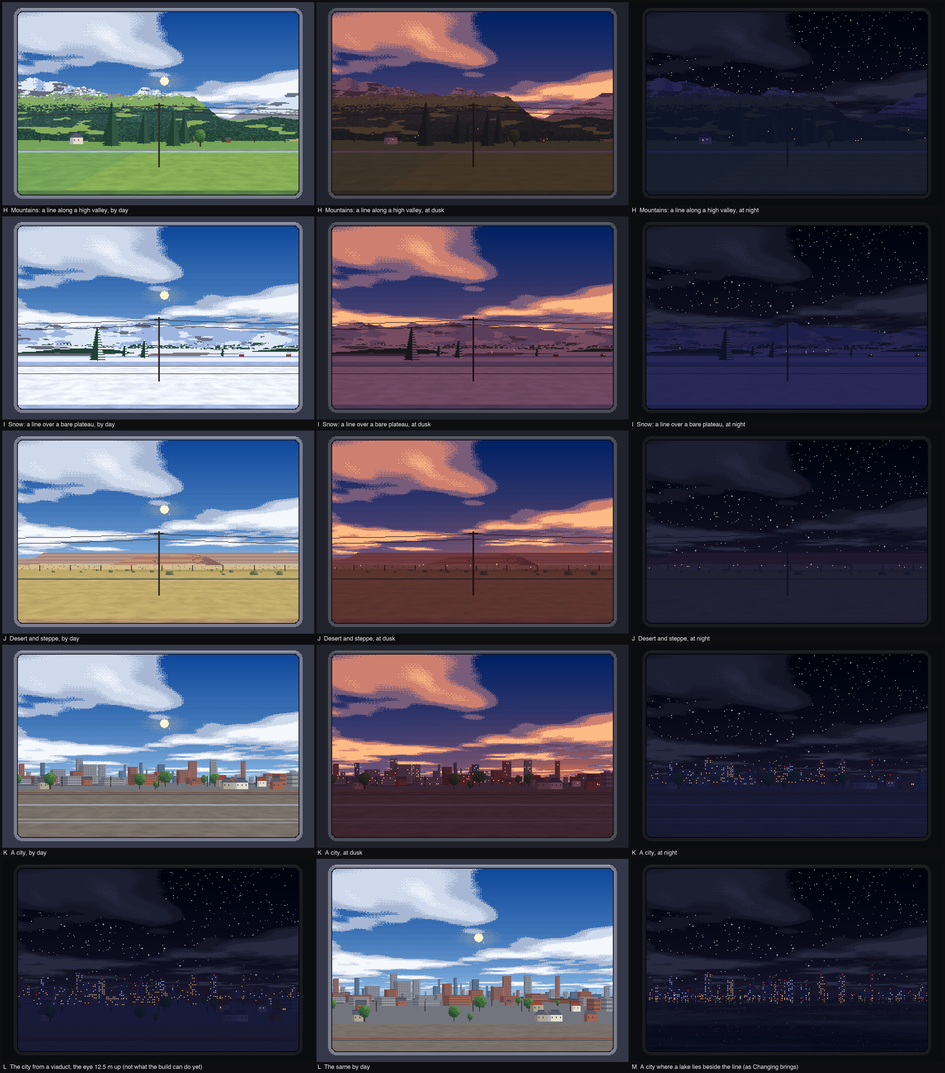
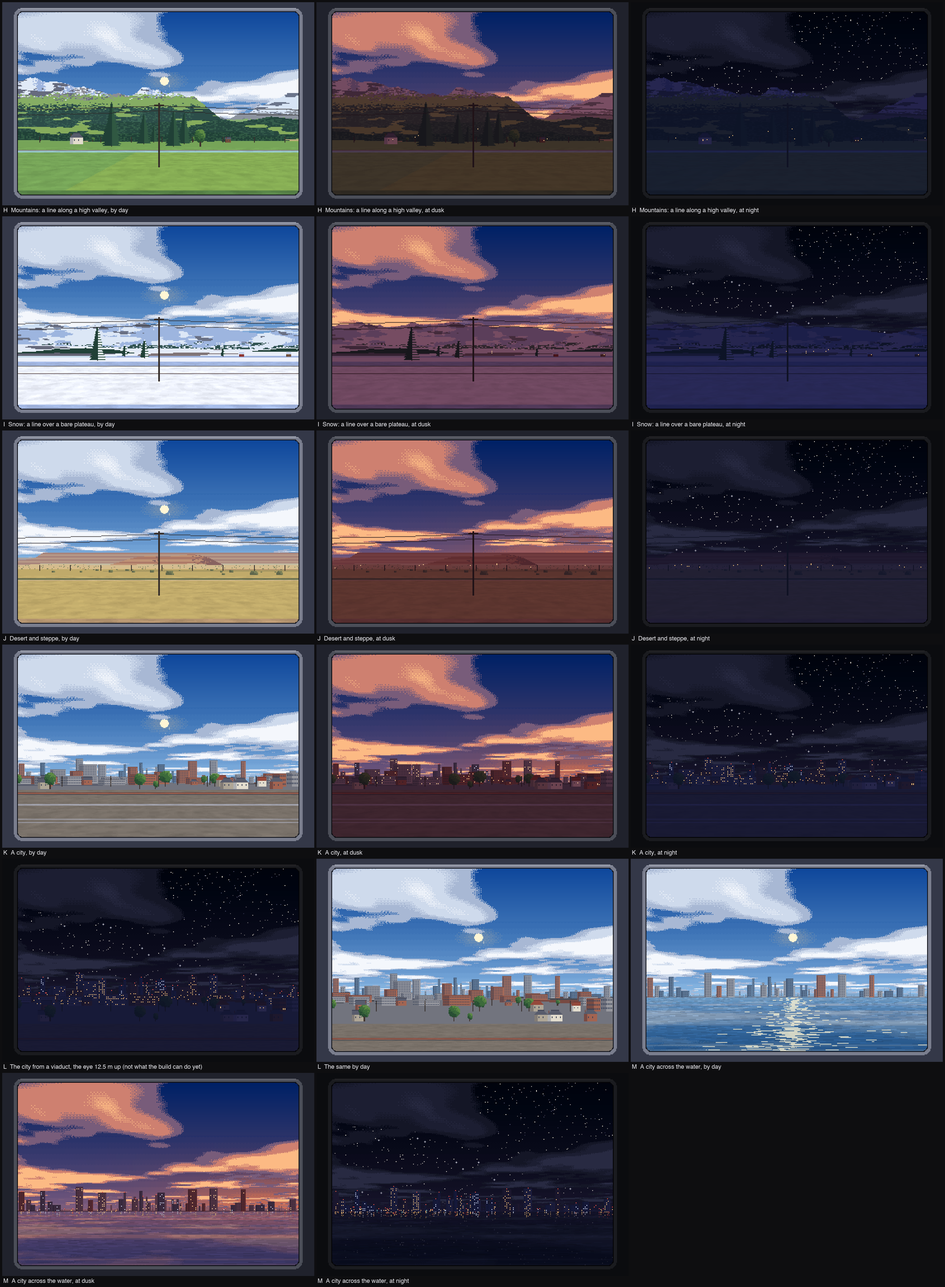
Pixel Window Seat: a city across the water, a Scenery pick of the train's own
The best night picture the train has, a city's lights across a lake, came only
when Changing happened to bring it. The pick holds it: the city with a lake
beside the line, its far shore a quay, matched to the mock-ups byte for byte.
Left to change, a lake lies beside a little more of a city too. Still hidden.

diff --git a/Tests/AtriumTests/TrainTests.swift b/Tests/AtriumTests/TrainTests.swift
@@ -53,7 +53,7 @@ import Testing
 /// What keeps it calm at any speed: no lamp is laid on a ring that slides faster than `TrainWorld.bright` pixels a
 /// second, none of the lane's poles on one faster than `thin`, and nothing that stands (a tree, a house) on one
 /// faster than `broad`. In each country held, and left to change.
-@Test(arguments: [0, 1, 3, 4, 5, 6]) func trainNothingThinIsFast(scenery: Int) {
+@Test(arguments: [0, 1, 3, 4, 5, 6, 7]) func trainNothingThinIsFast(scenery: Int) {
     var standing = 0, lamps = 0
     // What only a thing that stands is made of: a trunk, a window, a wall. (In the mountains fir is also the forest
     // on the land's face, which is land; a fir that stands has a trunk.)
@@ -85,7 +85,7 @@ import Testing
 @MainActor @Test func trainNightIsNeverBlack() {
     let keys = [PixelWindowSeat.previewTime.key, PixelWindowSeat.previewHour.key, PixelTrain.scenery.key, PixelCarriage.choice.key]
     defer { for key in keys { UserDefaults.standard.removeObject(forKey: key) } }
-    for (scenery, name) in [(1.0, "countryside"), (2, "a lake"), (3, "the mountains"), (4, "a city"), (5, "snow"), (6, "the desert")] {
+    for (scenery, name) in [(1.0, "countryside"), (2, "a lake"), (3, "the mountains"), (4, "a city"), (5, "snow"), (6, "the desert"), (7, "a city across the water")] {
         for (key, value) in zip(keys, [1, 23, scenery, 0]) { UserDefaults.standard.set(value, forKey: key) }
         let scene = PixelTrain(size: CGSize(width: 1512, height: 982))
         var seen: [Int] = []
@@ -104,7 +104,7 @@ import Testing
 @MainActor @Test func trainNightKeepsItsLampsInFog() {
     let keys = [PixelWindowSeat.previewTime.key, PixelWindowSeat.previewHour.key, PixelTrain.scenery.key, TrainWeather.preview.key, PixelCarriage.choice.key]
     defer { for key in keys { UserDefaults.standard.removeObject(forKey: key) } }
-    for (scenery, name) in [(1.0, "countryside"), (2, "a lake"), (3, "the mountains"), (4, "a city"), (5, "snow"), (6, "the desert")] {
+    for (scenery, name) in [(1.0, "countryside"), (2, "a lake"), (3, "the mountains"), (4, "a city"), (5, "snow"), (6, "the desert"), (7, "a city across the water")] {
         for (key, value) in zip(keys, [1, 23, scenery, 3, 0]) { UserDefaults.standard.set(value, forKey: key) }
         let scene = PixelTrain(size: CGSize(width: 1512, height: 982))
         var seen: [Int] = []
@@ -166,6 +166,38 @@ import Testing
 
 /// Left to change, the country has lakes beside the line for a fair share of it, and neither they nor the country
 /// between go on so long that the wallpaper seems stuck: at 1× the train covers 800 m a minute.
+/// A city across the water is the city with a lake held beside the line. Nearer than the far shore nothing stands
+/// and there is no pole line; every row of ground is water; and the far shore is a quay all along, with the city's
+/// lights over it. (What the rings beyond hold is set against the mock-ups' painter by `trainWritesItsCountry`.)
+@Test func trainHoldsACityAcrossTheWater() {
+    var harbour = TrainWorld(focal: 265, eye: 3.5, speed: 13.3)
+    harbour.scenery = 7
+    var bare = 0, onTheWater = 0, lamps = 0
+    for x in [52000.0, 3.0, 1_234_567.5] {
+        for ring in TrainWorld.rings.indices {
+            let rows = harbour.rows(ring), first = Int((x * harbour.perMetre(ring)).rounded(.down)) - 170
+            var across = [UInt8](repeating: 0, count: rows)
+            for n in first..<first + 340 {
+                _ = across.withUnsafeMutableBufferPointer { harbour.column(ring, n, into: $0.baseAddress!) }
+                if TrainWorld.rings[ring] >= TrainWorld.farShore {
+                    lamps += across.count { $0 > 127 }
+                    if TrainWorld.rings[ring] == TrainWorld.farShore, across[0] & 127 == 0 { bare += 1 }
+                } else {
+                    onTheWater += across.count { $0 != 0 }
+                }
+            }
+        }
+        for d in 1...66 {
+            let first = Int((x * (Double(d) / harbour.eye)).rounded(.down)) - 170
+            onTheWater += (first..<first + 340).count { harbour.ground(d, $0).land != TrainMat.water }
+        }
+        harbour.poleLine(at: x, wide: 340, high: 221, horizon: 66) { _, _, _ in onTheWater += 1 }
+    }
+    #expect(bare == 0, "\(bare) columns of the far shore have no quay")
+    #expect(onTheWater == 0, "\(onTheWater) things stand on the water")
+    #expect(lamps > 300, "the far shore has \(lamps) lights in three panes")
+}
+
 @Test func trainPassesLakes() {
     let world = TrainWorld(focal: 265.2, eye: 3.5, speed: PixelTrain.pace)
     var beside = 0, runs: [Bool: [Int]] = [true: [], false: []], last = false, run = 0
@@ -199,7 +231,7 @@ import Testing
     #expect(share.count == TrainWorld.passing.count + 1 && share.values.allSatisfy { $0 > 2000 }, "a country has under a twentieth of the line: \(share)")
     // The best night picture on the sheet is a city's lights in a lake: left to change, the line must bring one.
     print("train countries: a lake lies beside a city for \(harbours.count / 10) km of the 4,000, first at metres \(harbours.prefix(1)), and beside \(Set(harbours.map { $0 / 22_000 }).count) stretches of city")
-    #expect(harbours.count > 200, "a lake lies beside a city for only \(harbours.count / 10) km in 4,000")
+    #expect(harbours.count > 900, "a lake lies beside a city for only \(harbours.count / 10) km in 4,000") // (78 km without `TrainWorld.harbour`)
     #expect(runs[runs.count / 10] >= 80 && runs[runs.count * 9 / 10] <= 800, "stretches run from \(runs.first!) to \(runs.last!) hundred metres")
     var tallest = 0
     for meet in meets.prefix(40) {
@@ -279,7 +311,7 @@ import Testing
     defer { for key in keys { UserDefaults.standard.removeObject(forKey: key) } }
     // Each country, then the weather that moves: snow falling on the snow country, rain running on the glass
     // beside a lake, and a storm over the city a fifth of a second into its first strike.
-    for (scenery, weather) in [(1.0, 0.0), (2, 0), (3, 0), (4, 0), (5, 0), (6, 0), (5, 6), (2, 5), (4, 7)] {
+    for (scenery, weather) in [(1.0, 0.0), (2, 0), (3, 0), (4, 0), (5, 0), (6, 0), (7, 0), (5, 6), (2, 5), (4, 7)] {
         for (key, value) in zip(keys, [1, 13, scenery, weather]) { UserDefaults.standard.set(value, forKey: key) }
         var pictures: [[UInt32]] = []
         // (From an odd metre: 2.2 s at 1× is 29⅓ m, and from a whole one three rows of ground would end exactly on
@@ -302,7 +334,7 @@ import Testing
 /// Moving the Speed slider lays nothing again: at the moment it moves the picture stays as it was, pole line
 /// and all, though at 3× the line and the nearest trees are too fast to be laid. Only what comes into view from
 /// then on goes by the new speed.
-@MainActor @Test(arguments: [1.0, 3, 4, 5, 6]) func trainKeepsItsCountryAsTheSpeedChanges(scenery: Double) {
+@MainActor @Test(arguments: [1.0, 3, 4, 5, 6, 7]) func trainKeepsItsCountryAsTheSpeedChanges(scenery: Double) {
     let keys = [PixelWindowSeat.previewTime.key, PixelWindowSeat.previewHour.key, PixelTrain.scenery.key, PixelWindowSeat.speed.key]
     defer { for key in keys { UserDefaults.standard.removeObject(forKey: key) } }
     for (key, value) in zip(keys, [1, 13, scenery, 1.0]) { UserDefaults.standard.set(value, forKey: key) }
@@ -399,7 +431,7 @@ import Testing
     var world = TrainWorld(focal: 265, eye: 3.5, speed: 13.3) // the Large pane, its horizon 30% up
     let wide = 340, ground = 66
     // Countryside, as the first sheets' was, and then each of the other sceneries held, its files under its name.
-    for (scenery, name) in [(1, ""), (3, "mountains-"), (4, "city-"), (5, "snow-"), (6, "desert-")] {
+    for (scenery, name) in [(1, ""), (3, "mountains-"), (4, "city-"), (5, "snow-"), (6, "desert-"), (7, "harbour-")] {
         world.scenery = scenery
         for x in [52000.0, 52137.25, 3.0, 1_234_567.5] {
             for ring in TrainWorld.rings.indices {

diff --git a/Sources/Atrium/PixelTrain.swift b/Sources/Atrium/PixelTrain.swift
@@ -11,9 +11,12 @@ import SpriteKit
 /// the far.
 final class PixelTrain: SKScene {
     /// What country the line runs through: whatever comes, or held on one kind. (A menu of the train's own: the
-    /// airliner's has sceneries the train hasn't got yet, and its ocean is the train's lake.)
-    nonisolated static let scenery = Knob(key: "seat.country", label: "Scenery", range: 0...6, standard: 0, section: "Flight",
-                                          format: .choice(["Changing", "Countryside", "A lake beside the line", "Mountains", "A city", "Snow", "Desert"]), shownWhen: "seat.orbit", shownAt: 2)
+    /// airliner's has sceneries the train hasn't got yet, and its ocean is the train's lake.) The city across the
+    /// water was added last, so it is stored last and listed beside the city.
+    nonisolated static let scenery = Knob(key: "seat.country", label: "Scenery", range: 0...7, standard: 0, section: "Flight",
+                                          format: .choice(["Changing", "Countryside", "A lake beside the line", "Mountains", "A city", "Snow", "Desert",
+                                                           "A city across the water"]),
+                                          order: [0, 1, 2, 3, 4, 7, 5, 6], shownWhen: "seat.orbit", shownAt: 2)
     nonisolated static let poles = Knob(key: "seat.poles", label: "Poles and wires beside the line", range: 0...1, standard: 1, section: "Flight",
                                         format: .toggle, shownWhen: "seat.orbit", shownAt: 2)
     /// The train's own settings, listed among the airliner's (`PixelWindowSeat.rows`) while the train is offered.
@@ -605,18 +608,25 @@ struct TrainWorld {
     /// Which side things are lit from: 1 from the right of the picture, -1 from the left.
     var sun = 1
     /// Settings' Scenery: 0 for whatever comes, 1 for countryside, 2 for a lake beside the line, 3 for mountains,
-    /// 4 for a city, 5 for snow, 6 for desert.
+    /// 4 for a city, 5 for snow, 6 for desert, 7 for a city with a lake beside the line.
     var scenery = 0
     /// A lake's far shore is the ring this far off, and those beyond it: nearer rings stand on our side of the water.
     static let farShore = 1800.0
+    /// How much more readily a lake lies beside a city than beside other country, left to change (see `shore`).
+    static let harbour = 0.07
 
     /// How far from the track the land reaches before a lake begins, at a place along the line: no way at all where
     /// a lake lies beside the line, and for ever where there is none. Left to change, lakes lie along a third of the
     /// line, about 5 km of it at a time (six minutes at 1×) with 8 km of country between, and at each end the shore
-    /// closes in on the track over a few hundred metres.
+    /// closes in on the track over a few hundred metres. A city has more water beside it than other country, by
+    /// `harbour`, since its lights across a lake are the best the night has: none more at its edge, where it
+    /// meets farmland, and all of it from 3 km in.
     func shore(_ wx: Double) -> Double {
-        guard scenery == 0 else { return scenery == 2 ? 0 : .infinity }
-        let lake = fbm(wx / 5000, 11, 2, 5150) - 0.57
+        guard scenery == 0 else { return scenery == 2 || scenery == 7 ? 0 : .infinity }
+        var lake = fbm(wx / 5000, 11, 2, 5150) - 0.57
+        guard lake > -Self.harbour else { return .infinity }
+        let place = country(wx)
+        if place.kind == .city { lake += Self.harbour * place.relief(0) }
         guard lake > 0 else { return .infinity }
         let near = 1 - min(lake / 0.04, 1)
         return Self.farShore * near * near

diff --git a/Sources/Atrium/TrainScenery.swift b/Sources/Atrium/TrainScenery.swift
@@ -116,8 +116,9 @@ extension TrainWorld {
     static let stretch = 22_000.0
     /// The countries Changing passes through between its stretches of farmland.
     static let passing: [TrainCountry] = [.mountains, .city, .snow, .desert]
-    /// The country Settings' Scenery holds the line to, by its pick (a lake's is farmland).
-    private static let held: [TrainCountry] = [.farmland, .farmland, .farmland, .mountains, .city, .snow, .desert]
+    /// The country Settings' Scenery holds the line to, by its pick (a lake's is farmland, and the last is a city
+    /// with a lake beside it).
+    private static let held: [TrainCountry] = [.farmland, .farmland, .farmland, .mountains, .city, .snow, .desert, .city]
 
     /// Where a place along the line lies. Held on a scenery by Settings, the line is all one country. Left to
     /// change, it is cut into stretches at uneven places: every other one is farmland, and each between draws its
@@ -184,7 +185,7 @@ extension TrainWorld {
     /// skirt of scree; dunes and low rises nearer, with a little scrub; then scrub in clumps from 900 m in, thicker by
     /// the line, and where farmland has villages a camp of round felt tents, each with a door that glows after dark.
     func otherColumn(_ kind: TrainCountry, _ ring: Int, _ n: Int, into cells: UnsafeMutablePointer<UInt8>, by laid: [Laying], relief: Double) -> UInt8 {
-        if kind == .city { return cityColumn(ring, n, into: cells, by: laid) }
+        if kind == .city { return cityColumn(ring, n, into: cells, by: laid, relief: relief) }
         let z = Self.rings[ring], ppm = focal / z, wx = Double(n) / ppm, salt = UInt64(z) + kind.salt, rows = rows(ring)
         guard z >= Self.farShore || z <= shore(wx) else { return 0 } // out in a lake
         /// How fast the ring slid, in pixels a second, and which side the Sun was on, when column `n` came into view.
@@ -347,7 +348,7 @@ extension TrainWorld {
     /// windows lit after dark, warm in homes and white in glass. Street lamps stand every 40 to 70 m from 900 m in,
     /// on posts from 300 m in. And far off the city's streets are a seam of lights along its foot. Toward where
     /// another country begins the buildings are lower.
-    private func cityColumn(_ ring: Int, _ n: Int, into cells: UnsafeMutablePointer<UInt8>, by laid: [Laying]) -> UInt8 {
+    private func cityColumn(_ ring: Int, _ n: Int, into cells: UnsafeMutablePointer<UInt8>, by laid: [Laying], relief: Double) -> UInt8 {
         let kind = TrainCountry.city, z = Self.rings[ring], ppm = focal / z, wx = Double(n) / ppm, salt = UInt64(z) + kind.salt, rows = rows(ring)
         guard z >= Self.farShore || z <= shore(wx) else { return 0 } // out in a lake
         func when(_ n: Int) -> (pace: Double, sun: Int) {
@@ -406,6 +407,13 @@ extension TrainWorld {
                 cells[row] = (tint < 0.45 ? TrainMat.lampSodium : tint < 0.62 ? TrainMat.lampWhite : tint < 0.66 ? TrainMat.lampGreen : tint < 0.69 ? TrainMat.lampRed : 0) | 128
                 top = max(top, row + 1)
             }
+        }
+        // Across a lake the city's shore is a quay: a line of wall along the water, under all that is there, a lamp
+        // with nothing drawn under it among them. (One row, the first of the water's: a second would stand in front
+        // of the farther rings' street lights. And none close to where another country begins.)
+        if z == Self.farShore, shore(wx) < .infinity, relief > 0.5 {
+            if cells[0] & 127 == 0 { cells[0] |= TrainMat.concreteShade }
+            top = max(top, 1)
         }
         return UInt8(top)
     }

diff --git a/docs/pixel-window-seat/train_scenery.py b/docs/pixel-window-seat/train_scenery.py
@@ -152,9 +152,12 @@ def downtown(pos):
     return float(clip((fbm(np.array([pos / 5000.0]), np.array([7.0]), 2, 5152)[0] - 0.42) * 5))
 
 
-def ring_strip(kind, Z, n0, width, sun):
+def ring_strip(kind, Z, n0, width, sun, water=False):
     """Columns n0 … n0+width of the ring Z metres off in one of the four sceneries: material numbers with the ring's
-    foot on the bottom row, and a mask of what lights after dark, as train.ring_strip gives for countryside."""
+    foot on the bottom row, and a mask of what lights after dark, as train.ring_strip gives for countryside.
+    `water` is a lake beside the line: nothing stands nearer than its far shore, 1.8 km off."""
+    if water and Z < 1800:
+        return np.zeros((2, width), dtype=np.uint8), np.zeros((2, width), dtype=bool)
     if kind == "country" or (kind == "city" and Z >= 30000):  # (a city lies in the same country, under the same hills)
         return train.ring_strip(Z, n0, width, sun)
     ppm = FOCAL / Z
@@ -339,6 +342,10 @@ def ring_strip(kind, Z, n0, width, sun):
                 tint = rnd(n[on], row, salt + 66)
                 a[H - 1 - row, on] = np.where(tint < 0.45, I["lampO"], np.where(tint < 0.62, I["lampW"], np.where(tint < 0.66, I["lampT"], np.where(tint < 0.69, I["lampR"], 0))))
                 lamps[H - 1 - row, on] = True
+        # Across a lake the city's shore is a quay: a line of wall along the water, under all that is there. (One row,
+        # the first of the water's: a second would stand in front of the farther rings' street lights.)
+        if water and Z == 1800:
+            a[H - 1] = np.where(a[H - 1] == 0, I["concS"], a[H - 1])
         return a, lamps
     far, near, reach = {"mountains": (1.0, 0.3, 620.0), "snow": (0.7, 0.2, 1e9), "desert": (0.45, 0.14, 1e9)}[kind]
     if Z >= 1800 and Z <= 7000:
@@ -431,7 +438,7 @@ def view(kind, time="day", X=52000.0, speed=13.3, horizon_up=0.30, cover=0.30, c
             continue
         ppm = FOCAL / Z
         n0 = int(np.floor(X * ppm)) - CX
-        strip, lamps = ring_strip(kind, Z, n0, PW, 1)
+        strip, lamps = ring_strip(kind, Z, n0, PW, 1, water)
         if time == "sunset":
             lamps = lamps & (rnd(n0 + np.arange(PW)[None, :], np.arange(strip.shape[0])[::-1, None], 70) < 0.5)
         foot = min(PH, hy + int(round(eye * ppm)))
@@ -484,5 +491,7 @@ if __name__ == "__main__":
             tiles.append((f"{label}, {when}", compose(kind, time, X, poles=True)))
     tiles += [("L  The city from a viaduct, the eye 12.5 m up (not what the build can do yet)", compose("city", "night", X, eye=12.5)),
               ("L  The same by day", compose("city", "day", X, eye=12.5)),
-              ("M  A city where a lake lies beside the line (as Changing brings)", compose("city", "night", X, water=True))]
+              ("M  A city across the water, by day", compose("city", "day", X, water=True)),
+              ("M  A city across the water, at dusk", compose("city", "sunset", X, water=True)),
+              ("M  A city across the water, at night", compose("city", "night", X, water=True))]
     train.sheet("train-sheet3", tiles)

diff --git a/docs/pixel-window-seat/train_match.py b/docs/pixel-window-seat/train_match.py
@@ -27,11 +27,13 @@ import train_scenery
 folder = sys.argv[1]
 compared = differed = 0
 # The other sceneries' files carry their names in front ("mountains-ring-…"), and are set against train_scenery.py.
+# "harbour" is a city across the water: the city with a lake held beside the line.
 for path in sorted(glob.glob(f"{folder}/*ring-*.bin")):
     *kind, _, z, x = os.path.basename(path)[:-4].split("-")
     kind, Z, X = (kind or ["country"])[0], int(z), float(x)
     ours = np.fromfile(path, dtype=np.uint8).reshape(-1, train.PW)  # rows up from the foot
-    theirs, lamps = train_scenery.ring_strip(kind, Z, int(np.floor(X * train.FOCAL / Z)) - train.CX, train.PW, 1)
+    first = int(np.floor(X * train.FOCAL / Z)) - train.CX
+    theirs, lamps = train_scenery.ring_strip("city", Z, first, train.PW, 1, water=True) if kind == "harbour" else train_scenery.ring_strip(kind, Z, first, train.PW, 1)
     theirs = (theirs + 128 * lamps)[::-1].astype(np.uint8)
     tall = max(len(ours), len(theirs))
     a, b = np.zeros((tall, train.PW), np.uint8), np.zeros((tall, train.PW), np.uint8)
@@ -45,6 +47,11 @@ for path in sorted(glob.glob(f"{folder}/*ground-*.bin")):
     hy = round(train.PH * 0.7)
     rows = train.PH - hy
     ours = np.fromfile(path, dtype=np.uint8).reshape(2, rows, train.PW)
+    if kind == "harbour":  # every row is water, which takes the sky's colours and has no dashes
+        wrong = int((ours[0] != train.I["water"]).sum())
+        compared, differed = compared + ours[0].size, differed + wrong
+        print(f"{kind} ground at {X:>10}: {ours[0].size} bytes, all of them to be water, {wrong} differ")
+        continue
     theirs, lift = train_scenery.ground(hy, X, 13.3, kind)
     d = np.arange(1, rows + 1)[:, None]
     away = train.EYE * train.FOCAL / d

diff --git a/docs/pixel-window-seat/train.md b/docs/pixel-window-seat/train.md
@@ -472,7 +472,7 @@ The team lead accepted sheet 3 on Dave's standing word that all four be built (D
 ### The sceneries: what is still wrong, worst first (2026-10-11)
 For Dave. Each is the four sceneries' builder's own judgement.
 1. **Done since** (see Snow's fells, laid as the mountains' wall under snow, below): snow's fells were flat blue slabs with upright edges, the weakest thing in the four. What is left of it: by day they run together with cloud that stands behind them, and their shadow is drifts of noise, not the shape's own.
-2. **The best picture is the rarest:** a city's lights across a lake at night comes round about once in four hours left to change, and no pick holds it (above).
+2. **Done since** (see A city across the water, the eighth pick, below): the best picture was the rarest, a city's lights across a lake at night coming round about once in four hours left to change, with no pick to hold it. There is a pick now, and left to change it comes about once in three hours.
 3. **Where two countries meet, the near field is blotches of both for three to four seconds,** worst for snow on grass; the level lines (a lane, a river, a road, the rails, a fence) end and begin at one place; and the mountains' wall rises as one straight ramp. A meeting comes every twenty-six minutes or so at 1×.
 4. **The night's near field is a dark slab in every country:** nothing nearer than 180 m is lit, as in countryside. A city has windows and street lamps and nothing else: no cars, no train on the next line, no signals.
 5. **The city is at grade.** Sheet 3's tile L, the city from a viaduct, is not built: the eye's height is one number for the whole line, which sets every ring's foot and every row of ground, and a line that climbs would have to move both as it went.
@@ -485,7 +485,7 @@ For Dave. Each is the four sceneries' builder's own judgement.
 
 **Mine, and not Dave's** (none was on a sheet he saw): how the line is cut into stretches (every other one farmland, 9 to 35 km, the others drawn evenly); the land sinking to the track's level at a meeting and how wide that is; nothing standing within 60 m of one; the near field's crops changing over 160 m, or 50 m where one of the two is not green; a far field belonging to the country its middle lies in; a lake's dark image of its far shore, which changes the lake he picked by a thin dark band; the mountains' speckle drawn two pixels at a time; and four changes to sheet 3 made after he was shown it, with the sheet painted again each time: the city's slabs taller and wider, the snow's fells given ridges and flanks and then laid again as the mountains' wall, and things on the city's nearest ring at three fifths their size.
 
-**Not looked at, in any of the four:** a film at any Speed but 1× (stills at 3× and 10× only); Settings' page with its seven picks; the app.
+**Not looked at, in any of the four:** a film at any Speed but 1× (stills at 3× and 10× only); Settings' page with its eight picks; the app.
 
 ### Snow's fells, laid as the mountains' wall under snow (2026-10-11)
 The first thing on the list above, and the team lead's own first thought for it.
@@ -530,6 +530,29 @@ The first thing on the list above, and the team lead's own first thought for it.
   - **Not looked at:** portrait displays, the Small and Medium windows, the app.
 - **Onto main's desert** (rebased once more, over the desert, the countries' tables as constants and snow's fells). One collision, in the frame-rate test's list, which now has all six countries and then the three weathers that move. Checked after it, in release, under the lock: the whole suite, 105 tests pass; the byte check for everything, 16,279,576 bytes compared, 0 differ; `shots.sh`, 25 of 25; and with no weather sixteen train pictures (the six countries and Changing among them) are the same files from this build and from a build of main's own tree. Looked at, with the table: the desert in haze, in rain, and under a storm striking behind a mesa at 22:00; the snow country in rain, with snow falling (the glass dry), in fog (the fells gone, the near cabins fading) and in haze (the fells paling toward the horizon); the city at 23:00 in rain.
 - **Cost with the table and its ghost,** Large window, three runs in turn on a Mac other builders were using, CPU ms a frame: the city at night in rain 1.08 to 1.22 with the glass wet and 0.89 to 0.97 with it dry; rain by day 1.04 to 1.19 wet and 0.90 to 1.05 dry; a storm by day 1.15 to 1.32 wet and 1.03 to 1.30 dry; the airliner 1.05 to 1.07. GPU 0.11 to 0.86, noisy.
+
+### A city across the water, the eighth pick (2026-10-11)
+The second thing on the list above: the best picture the train has was the rarest, and no pick held it.
+- **Settings: Scenery gains A city across the water** (`seat.country` 7, stored last and listed beside A city: `Knob.order`). It is the city with a lake held beside the line: every row of ground is water, nothing stands nearer than the far shore 1.8 km off, there is no pole line, and beyond the water are the city's own rings, its towers, their windows and red lights, and the seam of street lights along its foot, each leaving its streak in the water.
+- **The far shore is a quay,** in the mock-up first: a grey line of wall one pixel high along the water at the 1.8 km ring, under all that is there, wherever a lake lies beside a city, held or left to change. Without it the towers stood in the water with the sky showing between them down to the waterline. It was two pixels high at first, and the second stood in front of the farther rings' street lights: an hour of night fell from 323 lamp pixels at the median to 275. There is none close to a meeting with other country.
+- **Left to change, a city has more water beside it** than other country: `TrainWorld.harbour`, 0.07, added to what makes a lake where the line is in a city, none of it at the city's edge and all of it from 3 km in. A lake now lies beside a city for 117 km of 4,000, in 26 stretches, where it was 78 km in 22: about once in three hours at 1× where it was four, and a third of a city's length where it was a fifth. Lakes as a whole lie beside 30% of the line (29%). The test holds it above 90 km. It is one number: more of it is a bigger number.
+- **Sheet 3 has it by day and at dusk** as well as at night (tile M), with the quay.
+- **In `PixelTrain.swift`:** the Scenery menu (its range, its eighth name and its order); `TrainWorld.shore` (the held lake for the new pick, and the city's `harbour`); the comment on `scenery`. In `TrainScenery.swift`: the pick's country, and the quay in `cityColumn`, which now takes the place's `relief`.
+- **Checked by running** (release, in the worktree, each test run through the lock):
+  - **Against the mock-ups:** 17,155,416 bytes compared, 0 differ. The pick is set against the painter as the others are: its eleven rings (the painter's city with `water`) and its ground (every byte water) at the four places, 875,840 bytes. The first run differed by 137 cells: a lamp with nothing drawn under it had no quay under it in the build; it has now.
+  - **The whole suite,** 106 tests, passes, with the pick added to the cull at nine speeds, the hour of night, the hour of night in fog, the same picture at 15, 30 and 60 frames a second, and no pixel changing as Speed moves; and a new test, `trainHoldsACityAcrossTheWater`: nothing stands on the water, no pole, every row water, a quay along all of the far shore. The train's and the window seat's 22 pass in debug (run while the quay was two pixels high).
+  - **An hour of night:** lamp pixels showing a minute apart, 132 at the least, 323 at the median, 467 at the most (the city at grade: 16, 190, 295): nothing stands in front of them. In fog, with a third of their light left: 76 at the least, 244 at the median, 349 at the most.
+  - **Filmed** at metre 74,000: at night at 30 frames a second a lamp is in the same pixel a frame later 94.6% of the time and a pixel on 5.1%; at 15, 89.1% and 10.3%. Of the water, 1.1% of pixels change from a frame to the next, and 14.5% when its ripples and streaks are reshuffled.
+  - **Cost,** three runs in turn, a clear sky (taken while the quay was two pixels high): 0.83 to 0.93 ms of CPU a frame by day and 0.78 to 0.93 by night, countryside 0.82 to 1.00, the airliner 0.90 to 0.98. GPU 0.25 to 0.52 ms.
+  - **What ships:** `shots.sh`, 25 of 25 the same files as before step 1.
+  - The suite, the byte check, the night's hours, the films and `shots.sh` were all run again with the quay at one pixel.
+  - **And once more on top of main's rain on the glass and its lamp under a dark day,** which landed meanwhile. Two collisions, both kept whole: this page, and the frame-rate test's list, which now has the new pick among the sceneries and the rain's case among the weather. On that head: the whole suite, 106 tests pass; the byte check, 17,155,416 bytes compared, 0 differ; `shots.sh`, 25 of 25; the night's hours as above.
+- **Looked at,** as art pixels: the pick at metre 74,000 at 13:00 and 18:18 under scattered cloud and at 23:00; at 52,000 at 8:30; at 120,000 at 21:00 under scattered cloud; under a previewed thunderstorm at 23:00; at 3× (the same as 1×: nothing of it is near enough to be culled); left to change, a city's lake at metre 93,200 by day and by night; and the whole canvas with the table at 18:18 and 23:00, and after the rain landed at 23:00 in previewed rain (the lights soft through the wet glass, the threads across them). By day a skyline over blue water, each tower with its dark image under it and the cloud's in the water; at dusk the windows coming on over the Sun's orange path; at night the lights and their streaks. With the table, which a train starts with, only a short strip of the water shows over the sill.
+- **Wrong, or not done:**
+  - **It is the stillest of the sceneries.** The far shore slides 2 pixels a second at 1×, so a tower takes nearly three minutes to cross the pane; what moves is the water's shimmer and the lights' streaks. The lake through countryside is the same. Speed helps.
+  - **By day the towers still look as if they stand at the water's edge with nothing between:** a one-pixel quay, no trees, cranes, boats or low sheds along the shore.
+  - **The quay and the `harbour` number are mine,** not Dave's, and nor is the pick's name.
+  - **Not looked at:** Settings' page with the new pick in its menu; the app.
 
 ## Research for the next mock-ups
 - **The window.** Real glass, width to height: a TGV bar car 1.94:1, a EuroNight sleeper 1.46:1, a British Mark 1 bay 1.2:1 with top-lights, an Amtrak Superliner coach 2.75:1, a Shinkansen N700 0.96:1 (520 × 500 mm: an airliner's window again). The mock-ups' pane is the airliner's, 1.54:1. A wide picture window (about 1.9:1) fills a 16:10 screen best.
